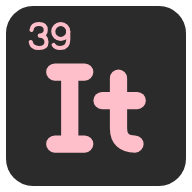
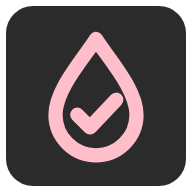
Give Amber a mark of its own
The header and the app's icons showed Itrium's element tile. Amber now has its own mark: a drop of resin with a tick kept inside it, the way amber keeps what falls into it, in the same rounded pink strokes on the same graphite tile, so it reads as one of Itrium's family. It isn't an element tile: "Amber" isn't an element, and "Am" is americium. Favicon sizes use a compact version, larger and heavier, so the tick still reads at 32 px. The files are copies from the brand assets, built by source/amber.py there.

Changed region(s): [[0.2188, 0.1562, 0.7812, 0.875], [0.125, 0.0938, 0.375, 0.2812]]

diff --git a/DESIGN.md b/DESIGN.md
@@ -294,7 +294,8 @@ a 15rem sidebar (lists, categories, tags, and the quiet actions below them) sits
 with a 32px gap; below that the sidebar moves into a sheet opened from the menu button in the
 header.
 
-The header wraps: Amber's icon and the wordmark on the left, search taking up to 28rem on the
+The header wraps: Amber's mark (a drop of resin with a tick kept inside it, pink on Itrium's
+graphite tile, the family's frame) and the wordmark on the left, search taking up to 28rem on the
 right, and on a phone the search bar on a line of its own, full width. Nothing else sits in the
 header; the link to Itrium is in the footer's last line. The main column runs
 headline, notices, the Any/Open/Done switch while searching, quick add, then sections spaced 32px
